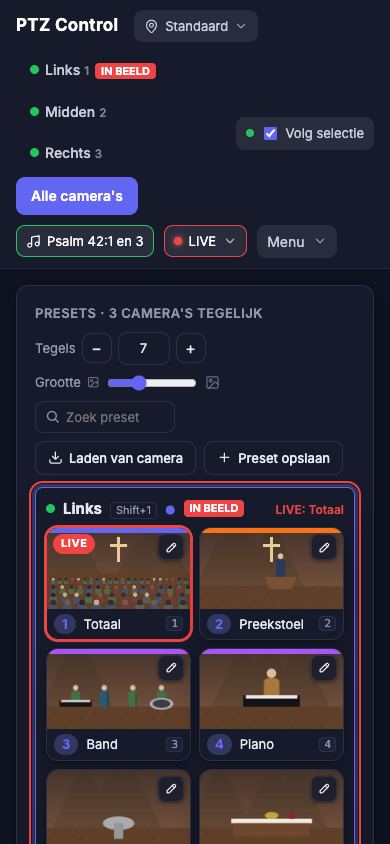
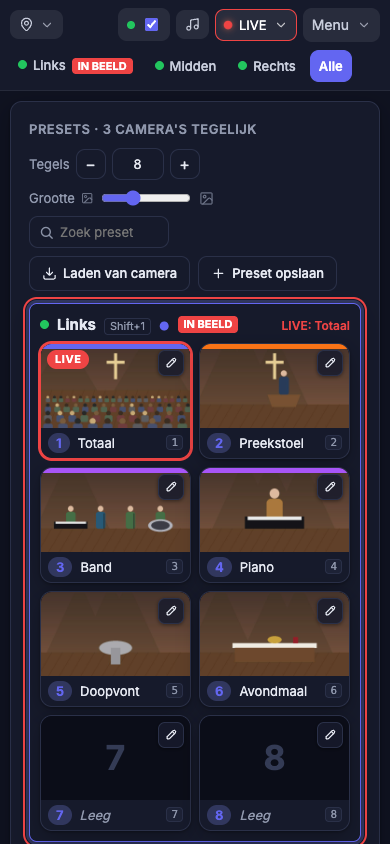
Kopbalk past zich aan elke schermbreedte aan
De cameratabbladen braken bij ongeveer 1000 px over meerdere regels af,
waardoor de kop het halve scherm vulde.

- tabbladen staan nu in één rij; passen ze niet naast de knoppen, dan
  krijgen ze een eigen regel (hdrFit), anders schuiven ze horizontaal
- rechtse knoppen in een eigen groep (.hdrR)
- tot 700 px tonen de knoppen alleen hun icoon, tot 560 px compacter,
  tot 420 px zonder titel en met "Alle" in plaats van "Alle camera's"
- kop niet vastgeplakt bij weinig schermhoogte (telefoon liggend)
- rondleiding schuift de pagina op als de uitlegkaart nergens past

diff --git a/index.html b/index.html
@@ -60,9 +60,14 @@
 
   header { display: flex; align-items: center; gap: 10px; padding: 10px 16px; border-bottom: 1px solid var(--line);
     flex-wrap: wrap; position: sticky; top: 0; background: var(--bg); z-index: 28; }
-  header h1 { font-size: 15px; font-weight: 600; margin: 0 6px 0 0; }
-  .tabs { display: flex; gap: 6px; flex-wrap: wrap; flex: 1; }
-  .tab { padding: 8px 14px; border-radius: 8px; background: var(--panel2); border: 1px solid var(--line); cursor: pointer; }
+  header h1 { font-size: 15px; font-weight: 600; margin: 0 6px 0 0; white-space: nowrap; }
+  /* 🧑 kop past zich aan elke schermbreedte aan: tabbladen in één rij (horizontaal scrollen als het echt niet past);
+     passen ze niet naast de knoppen, dan krijgen ze een eigen regel (header.stack, gezet door hdrFit()) */
+  .tabs { display: flex; gap: 6px; flex-wrap: nowrap; flex: 1 1 0; min-width: 0; overflow-x: auto; scrollbar-width: none; }
+  .tabs::-webkit-scrollbar { display: none; }
+  .hdrR { display: flex; align-items: center; gap: 10px; margin-left: auto; flex: none; }
+  header.stack .tabs { order: 5; flex-basis: 100%; }
+  .tab { flex: none; white-space: nowrap; padding: 8px 14px; border-radius: 8px; background: var(--panel2); border: 1px solid var(--line); cursor: pointer; }
   .tab.active { background: var(--accent); color: var(--onaccent); border-color: var(--accent); font-weight: 600; }
   .tab.all { border-style: dashed; }
   .tab.all.active { border-style: solid; }
@@ -73,6 +78,26 @@
   @media (max-width: 1200px) { main { grid-template-columns: 1fr; } aside { position: static !important;
     grid-template-columns: minmax(0, 1fr) minmax(0, 1fr); align-items: start; } }
   @media (max-width: 700px) { aside { grid-template-columns: 1fr; } }
+  /* telefoon: knoppen in de kop alleen met icoon (tekst staat in de title), compacter */
+  @media (max-width: 700px) {
+    header .hl { display: none; }
+    #btnYt:not(.live):not(.upcoming) #ytLbl { display: none; }
+  }
+  .tab .kort { display: none; }
+  @media (max-width: 560px) {
+    header { padding: 8px 10px; gap: 6px; row-gap: 8px; }
+    .hdrR { gap: 6px; }
+    header .icon { padding: 7px 9px; }
+    header .tab { padding: 7px 10px; }
+    header .tab small { display: none; }
+    #alertBar, #practiceBar { padding: 6px 10px; font-size: 13px; gap: 8px; }
+    main { padding: 10px; gap: 10px; }
+    .card { padding: 12px; }
+  }
+  @media (max-width: 420px) { header h1 { display: none; } header .tab { padding: 6px 8px; font-size: 13px; }
+    .tab .lang { display: none; } .tab .kort { display: inline; } }
+  /* weinig hoogte (telefoon liggend): kop niet vastplakken, anders blijft er geen ruimte voor de tegels */
+  @media (max-height: 500px) { header { position: static; } }
   .card { background: var(--panel); border: 1px solid var(--line); border-radius: 12px; padding: 14px; }
   .card h2 { font-size: 12px; text-transform: uppercase; letter-spacing: .08em; color: var(--muted); margin: 0;
     font-weight: 600; }
@@ -720,17 +745,18 @@
   <h1>PTZ Control</h1>
   <div class="menuwrap" id="wsWrap">
     <button class="icon" id="btnWs" aria-haspopup="true" aria-expanded="false" title="Workspace: een aparte set camera's, presets en instellingen (bijv. per locatie)">
-      <svg class="ic" data-i="pin" aria-hidden="true"><use href="#i-pin"/></svg> <span id="wsLbl">Standaard</span> <svg class="ic caret" data-i="chevron-down" aria-hidden="true"><use href="#i-chevron-down"/></svg></button>
+      <svg class="ic" data-i="pin" aria-hidden="true"><use href="#i-pin"/></svg> <span id="wsLbl" class="hl">Standaard</span> <svg class="ic caret" data-i="chevron-down" aria-hidden="true"><use href="#i-chevron-down"/></svg></button>
     <div class="menu" id="wsMenu" hidden role="menu"></div>
   </div>
   <div class="tabs" id="tabs"></div>
-  <label class="icon" style="display:flex;gap:6px;align-items:center;font-size:13px"
+  <div class="hdrR">
+  <label class="icon" id="lblFollow" style="display:flex;gap:6px;align-items:center;font-size:13px"
     title="Wissel mee als op een ander scherm of met de controller een andere camera gekozen wordt. Het bolletje is groen als de verbinding met de app goed is.">
     <span id="liveDot" style="width:8px;height:8px;border-radius:50%;background:var(--muted)"></span>
-    <input type="checkbox" id="chkFollow" checked> Volg selectie
+    <input type="checkbox" id="chkFollow" checked> <span class="hl">Volg selectie</span>
   </label>
   <button class="icon" id="btnLock" hidden title="Pincode / alleen kijken"><svg class="ic" data-i="lock" aria-hidden="true"><use href="#i-lock"/></svg></button>
-  <button class="icon" id="btnSongBar" hidden title="Liederenvenster tonen/verbergen (L)"><svg class="ic" data-i="music" aria-hidden="true"><use href="#i-music"/></svg><span class="sbl" id="songBarLbl">Liederen</span></button>
+  <button class="icon" id="btnSongBar" hidden title="Liederenvenster tonen/verbergen (L)"><svg class="ic" data-i="music" aria-hidden="true"><use href="#i-music"/></svg><span class="sbl hl" id="songBarLbl">Liederen</span></button>
   <div class="menuwrap" id="ytWrap">
     <button class="icon" id="btnYt" aria-haspopup="true" aria-expanded="false"><span class="ytdot"></span><span id="ytLbl">YouTube</span> <svg class="ic caret" data-i="chevron-down" aria-hidden="true"><use href="#i-chevron-down"/></svg></button>
     <div class="menu" id="ytMenu" hidden role="menu"></div>
@@ -758,6 +784,7 @@
       <div class="msep"></div>
       <button class="mi danger" id="btnQuit" role="menuitem" title="Stopt PTZ Control op deze computer (alle schermen verliezen de verbinding)"><svg class="ic" data-i="power" aria-hidden="true"><use href="#i-power"/></svg> PTZ Control afsluiten</button>
     </div>
+  </div>
   </div>
 </header>
 <div id="practiceBar" role="status"><svg class="ic" data-i="cone" aria-hidden="true"><use href="#i-cone"/></svg> OEFENSTAND: de echte camera's bewegen niet en de videomixer is losgekoppeld. Wijzigingen worden niet bewaard.
@@ -1345,6 +1372,13 @@ async function saveConfig() {
 /* ================= render ================= */
 function render() { renderTabs(); renderPresets(); renderSide(); }
 
+// kop: passen de tabbladen niet naast titel/workspace/knoppen, dan gaan ze naar een eigen regel
+function hdrFit() {
+  const h = $("header"), t = $("#tabs");
+  if (!h || !t) return;
+  h.classList.remove("stack");
+  if (t.scrollWidth > t.clientWidth + 1 || t.clientWidth < 120) h.classList.add("stack");
+}
 function renderTabs() {
   renderTabBar();
   const tabs = $("#tabs"); tabs.innerHTML = "";
@@ -1358,9 +1392,15 @@ function renderTabs() {
   if (cfg.cameras.length > 1) {
     const a = document.createElement("button");
     a.className = "tab all" + (view === ALL ? " active" : "");
-    a.textContent = "Alle camera's";
+    a.innerHTML = `<span class="lang">Alle camera's</span><span class="kort">Alle</span>`;
     a.onclick = () => setView(ALL);
     tabs.appendChild(a);
+  }
+  hdrFit();
+  const act = tabs.querySelector(".tab.active");     // actieve tab in beeld schuiven (alleen de tabbalk, niet de pagina)
+  if (act && tabs.scrollWidth > tabs.clientWidth) {
+    if (act.offsetLeft < tabs.scrollLeft) tabs.scrollLeft = act.offsetLeft - 8;
+    else if (act.offsetLeft + act.offsetWidth > tabs.scrollLeft + tabs.clientWidth) tabs.scrollLeft = act.offsetLeft + act.offsetWidth - tabs.clientWidth + 8;
   }
 }
 
@@ -3186,12 +3226,13 @@ function alertCheck() {
 }
 // foutbalk en oefenbalk plakken onder de kop (die is sticky en kan meerdere regels hoog zijn; op volledig scherm verborgen = 0)
 function barsTop() {
-  const bs = document.body.style;
-  bs.setProperty("--headh", $("header").offsetHeight + "px");
+  const bs = document.body.style, h = $("header");
+  bs.setProperty("--headh", (getComputedStyle(h).position === "sticky" ? h.offsetHeight : 0) + "px");
   bs.setProperty("--practh", $("#practiceBar").offsetHeight + "px");
 }
 if (window.ResizeObserver) { const ro = new ResizeObserver(barsTop); ro.observe($("header")); ro.observe($("#practiceBar")); }
 barsTop();
+addEventListener("resize", () => { hdrFit(); barsTop(); });
 function camLabel(n) { return /^camera\b/i.test(n || "") ? n : "Camera " + n; }   // geen "Camera Camera 1"
 $("#alertHide").onclick = () => { alertHidden = new Set(alertPrev.keys()); $("#alertBar").classList.remove("show"); };
 $("#alertLog").onclick = () => $("#btnLog").click();
@@ -3822,7 +3863,15 @@ function tourPlace() {
     card.style.left = Math.max(m, (vw - cw) / 2) + "px"; card.style.top = Math.max(m, (vh - ch) / 2.4) + "px";
     return;
   }
-  const pad = st.pad ?? 4, r = el.getBoundingClientRect();
+  const pad = st.pad ?? 4;
+  let r = el.getBoundingClientRect();
+  // past de kaart nergens naast het doel (klein scherm), schuif de pagina dan zo ver op dat hij eronder past
+  if (!st.menu && r.bottom + pad + m + ch > vh && r.top - pad - m - ch < 0) {
+    const need = Math.ceil(r.bottom + pad + m + ch - vh) + 1, h = $("header");
+    const hb = getComputedStyle(h).position === "sticky" ? h.getBoundingClientRect().bottom : 0;
+    const room = document.documentElement.scrollHeight - innerHeight - scrollY;
+    if (r.top - need >= hb + pad && room >= need) { scrollBy(0, need); r = el.getBoundingClientRect(); }
+  }
   spot.classList.remove("none");
   Object.assign(spot.style, { left: r.left - pad + "px", top: r.top - pad + "px", width: r.width + pad * 2 + "px", height: r.height + pad * 2 + "px" });
   // kaart onder, boven, rechts of links van het doel; anders midden onderin

diff --git a/CLAUDE.md b/CLAUDE.md
@@ -57,6 +57,7 @@ Legenda: ✅ geverifieerd (getest of in officiële docs gevonden) · ⚠ aann
 - 🧑 **Bewerk-knop op presettegels**: SVG-potlood op een knop met themakleuren (`--editbg/--editfg/--editline`); was in het lichte thema te donker. Klikdetectie via `closest(".edit")`.
 - 🧑 **Geen ⚙ Instellingen meer in het 🎮-menu** (op verzoek weggehaald, dubbel met het YouTube-menu). De dialoog `#dlgPrefs` (titel *YouTube-kanaal*, alleen het kanaal) opent via *Kanaal instellen…* in `#ytMenu` en via de knop in het YouTube-venster als er nog geen kanaal is. De camera-dialoog heet in het menu 📷 Camera's (id `btnSettings` ongewijzigd).
 - Standaardweergave is **"Alle camera's"** (kolommen) zodra er >1 camera is.
+- 🧑 **Responsieve kop** (op verzoek, 13 nov 2026: "UI voor elke screensize adjustable"; de cameratabbladen stonden bij ~1000 px onder elkaar): `header` = titel, `#wsWrap`, `#tabs`, `.hdrR` (rechtse knoppen). `#tabs` is één rij (`flex: 1 1 0`, `nowrap`, horizontaal scrollen zonder balk); `hdrFit()` (na `renderTabs` en bij resize) zet `header.stack` als de tabs niet passen → tabs op een eigen regel (`order: 5`, 100% breed). De actieve tab wordt in beeld geschoven via `scrollLeft` (geen `scrollIntoView`: dat liet de pagina springen). ≤ 700 px: teksten met `.hl` (Volg selectie, workspace-naam, Liederen) en *YouTube* (niet bij LIVE/Gepland) weg, alleen icoon; ≤ 560 px: compacter, sneltoetsnummers op tabs weg; ≤ 420 px: titel weg, *Alle camera's* → *Alle* (`.lang`/`.kort`). Hoogte ≤ 500 px: kop niet sticky (`barsTop` zet `--headh` dan op 0). `tourPlace` schuift de pagina op als de tourkaart nergens naast het doel past. ✅ Getest (Chrome, 1920–320 px): geen horizontale scroll, kop 1–2 regels; rondleiding 39 stappen zonder meldingen op 1440/900/390.
 - 🧑 **Menuknop "Menu ▾"** (`#btnPad`): gewone knop zonder controllericoon (🎮 + statusbolletje op verzoek weggehaald). De controllerstatus staat in de Xbox-kaart: groene badge `#padBadge` "● Verbonden", die zacht oplicht tijdens bewegen (`.act`).
 - 🧑 **Menu onder die knop** (`#mainMenu`): Sneltoetsen, Volledig scherm, Back-up, Camera's, 🎛 Videomixer (MIDI) (`btnMidi`), 🎵 Liederen (`btnSongs`), Presetaantal testen, 🖥 OSD-menu camera (`btnOsd`, §3a), 🚧 Oefenstand (`btnPractice`, bewust niet 🎯: dat is volgen), 📋 Activiteitenlog (`btnLog`), 🔒 Toegang (`btnAccess`), 📱 Tabletweergave (`btnTablet`), Licht/donker, 🎓 Rondleiding, 🔄 Op updates controleren, Afsluiten. De knoppen houden hun oude id's (`btnKeys`, `btnWall`, `btnBackup`, `btnSettings`, `btnCap`); klik buiten of Esc sluit het menu. 🧑 Het item *Controller-instellingen* (`btnPadSet`, sprong naar de Xbox-kaart) is op verzoek weggehaald; de instellingen staan in de zijbalk.
 - 🧑 **Volledig scherm** (`body.wall`) is alleen om te bedienen: **📥 Laden van camera** en **＋ Preset opslaan** zijn daar verborgen, en een actieve opslaan-modus wordt bij het openen uitgezet (zodat een tik geen preset overschrijft).

diff --git a/README.md b/README.md
@@ -298,7 +298,7 @@ De vormgeving volgt de huisstijl van de Voordienst app: lichtgrijze achtergrond 
 
 ![Lichte modus](docs/screenshots/hoofdscherm-licht.png)
 
-Op een telefoon of smalle tablet staan de onderdelen onder elkaar:
+De app past zich aan elke schermgrootte aan. Passen de cameratabbladen niet naast de knoppen in de kopbalk, dan krijgen ze een eigen regel (en schuiven ze opzij als ze ook dan niet passen). Op een smal scherm tonen de knoppen in de kop alleen hun icoon (de uitleg staat erbij als je erop wijst) en staan de onderdelen onder elkaar:
 
 <img src="docs/screenshots/telefoon.png" width="260" alt="Op een telefoon">
 
